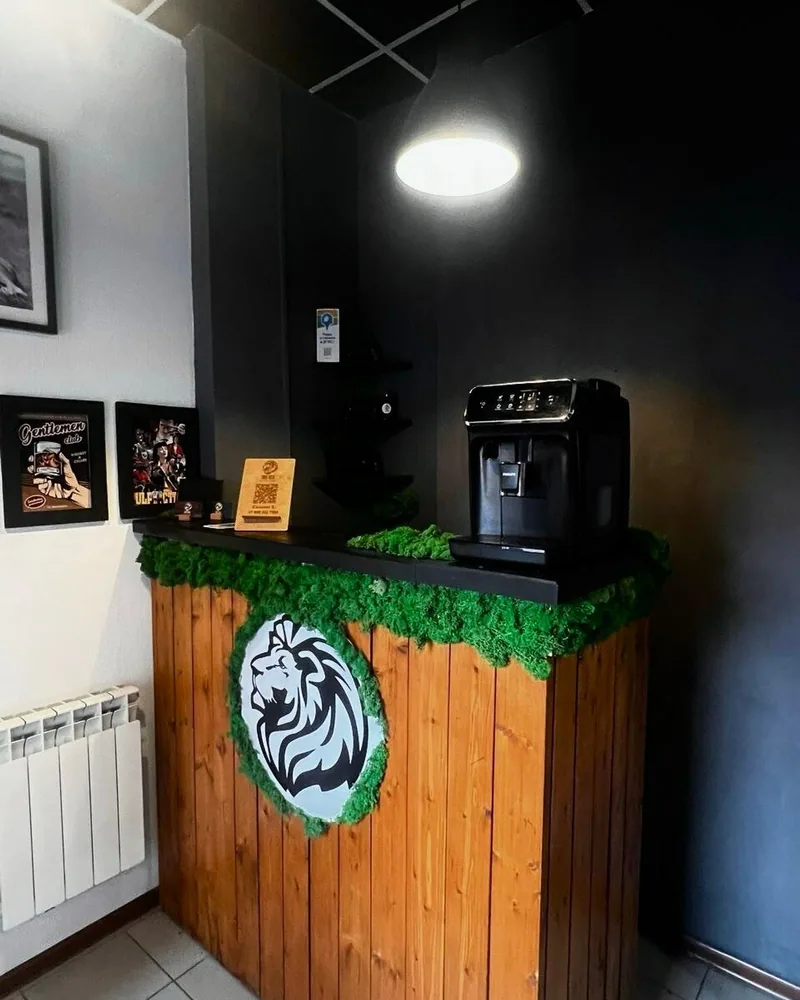
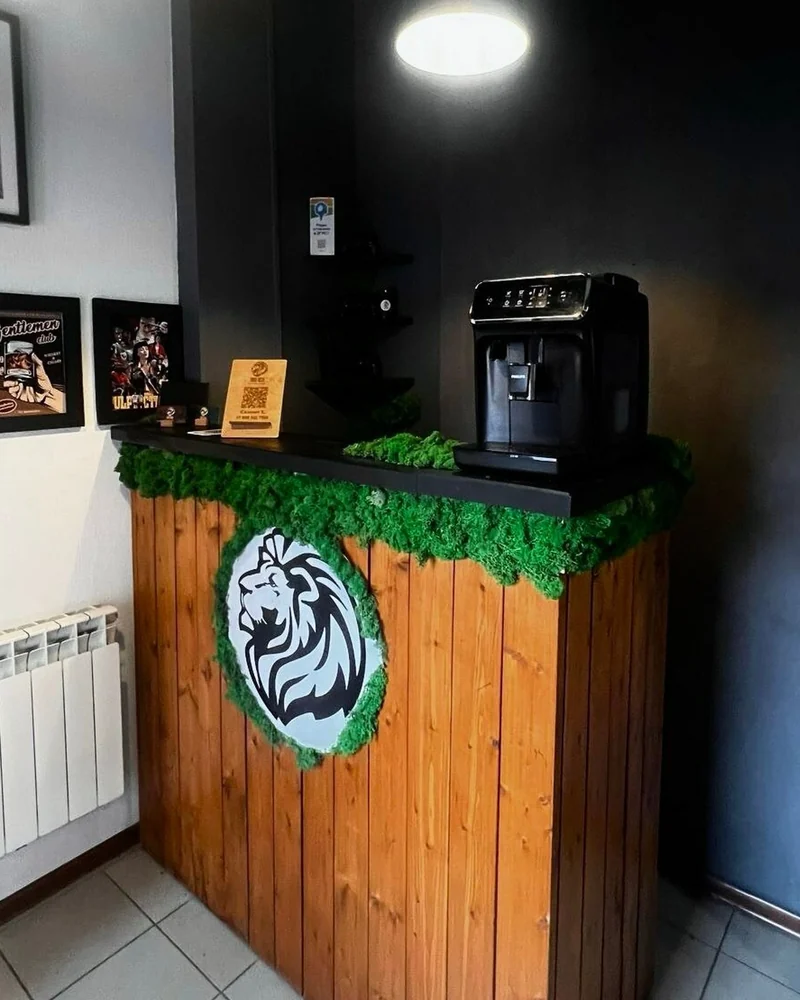
Фикс фото «О заведении»: лев больше не обрезается
На мобильном約 about-фото было 16:10 и срезало низ со львом, оставляя
кофемашину. Перекадрировал на стойку со львом и мхом, добавил
object-fit:cover, мобильную пропорцию сделал 4:5.

diff --git a/index.html b/index.html
@@ -150,6 +150,7 @@ h1,h2,h3,h4{font-family:"Oswald",sans-serif;font-weight:500;text-transform:upper
 .about__grid{display:grid;grid-template-columns:1.1fr .9fr;gap:clamp(28px,5vw,64px);align-items:center}
 .about__text p{color:var(--mute);margin-top:16px;max-width:46ch}
 .about__photo{aspect-ratio:4/5;overflow:hidden}
+.about__photo img{width:100%;height:100%;object-fit:cover;object-position:center}
 .stats{display:grid;grid-template-columns:repeat(4,1fr);gap:1px;background:var(--line);border:1px solid var(--line);margin-top:clamp(40px,6vh,64px)}
 .stat{background:var(--ink);padding:26px 20px;text-align:center}
 .stat__num{font-family:"Oswald";font-weight:600;font-size:clamp(30px,4vw,46px);color:var(--moss-light);line-height:1}
@@ -309,7 +310,7 @@ main{counter-reset:sec}
   .nav,.hdr__phone{display:none}
   .burger{display:flex}
   .about__grid{grid-template-columns:1fr}
-  .about__photo{aspect-ratio:16/10;order:-1}
+  .about__photo{aspect-ratio:4/5;order:-1}
   .stats{grid-template-columns:1fr 1fr}
   .fs__grid{grid-template-columns:1fr;gap:26px;text-align:center}
   .fs__photo{max-width:100%;margin:0 auto}
